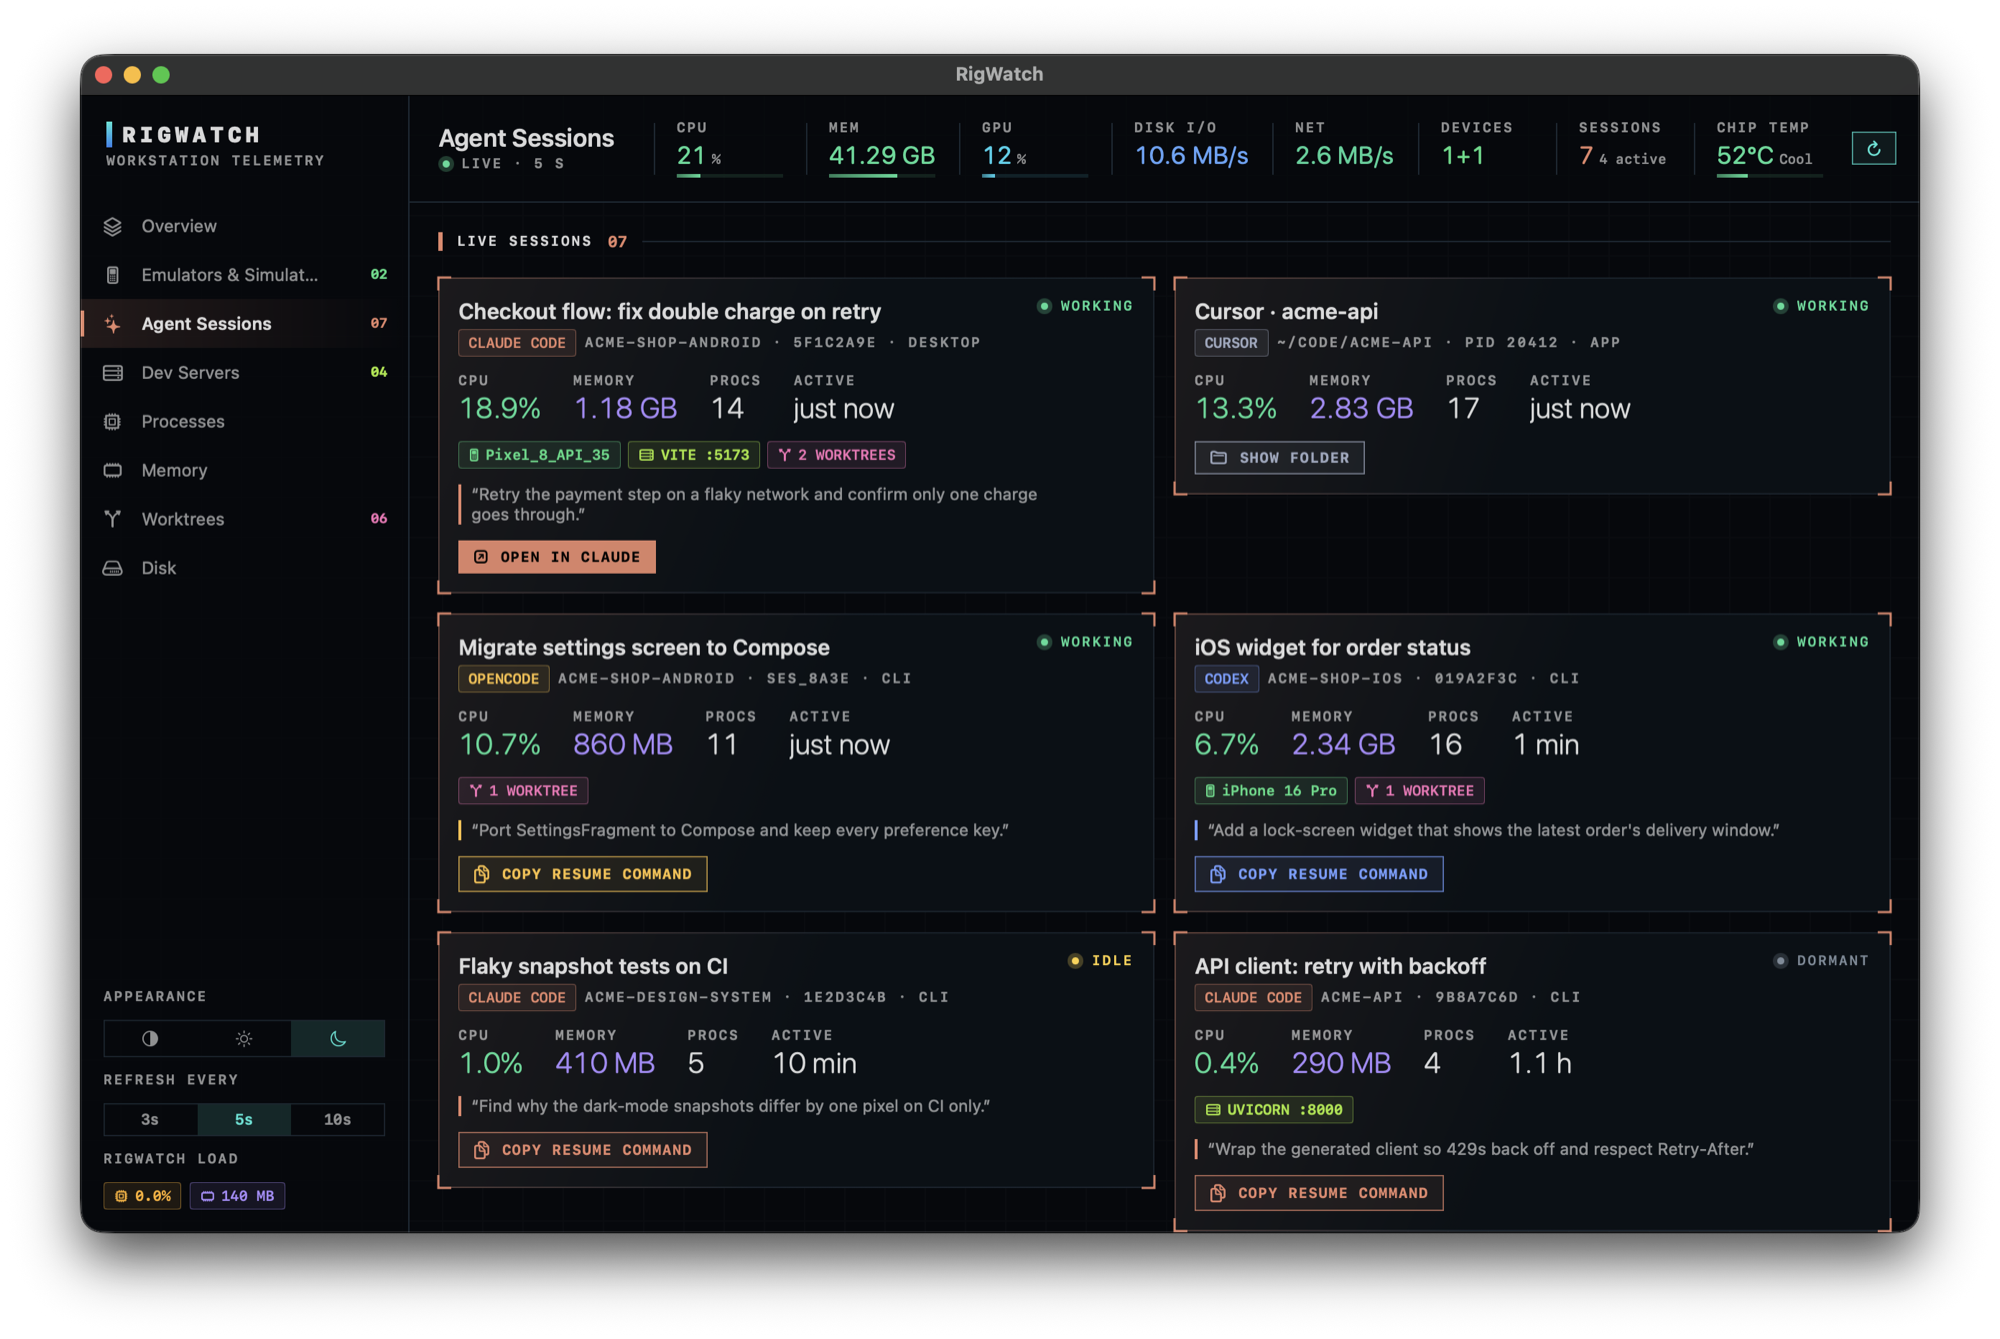
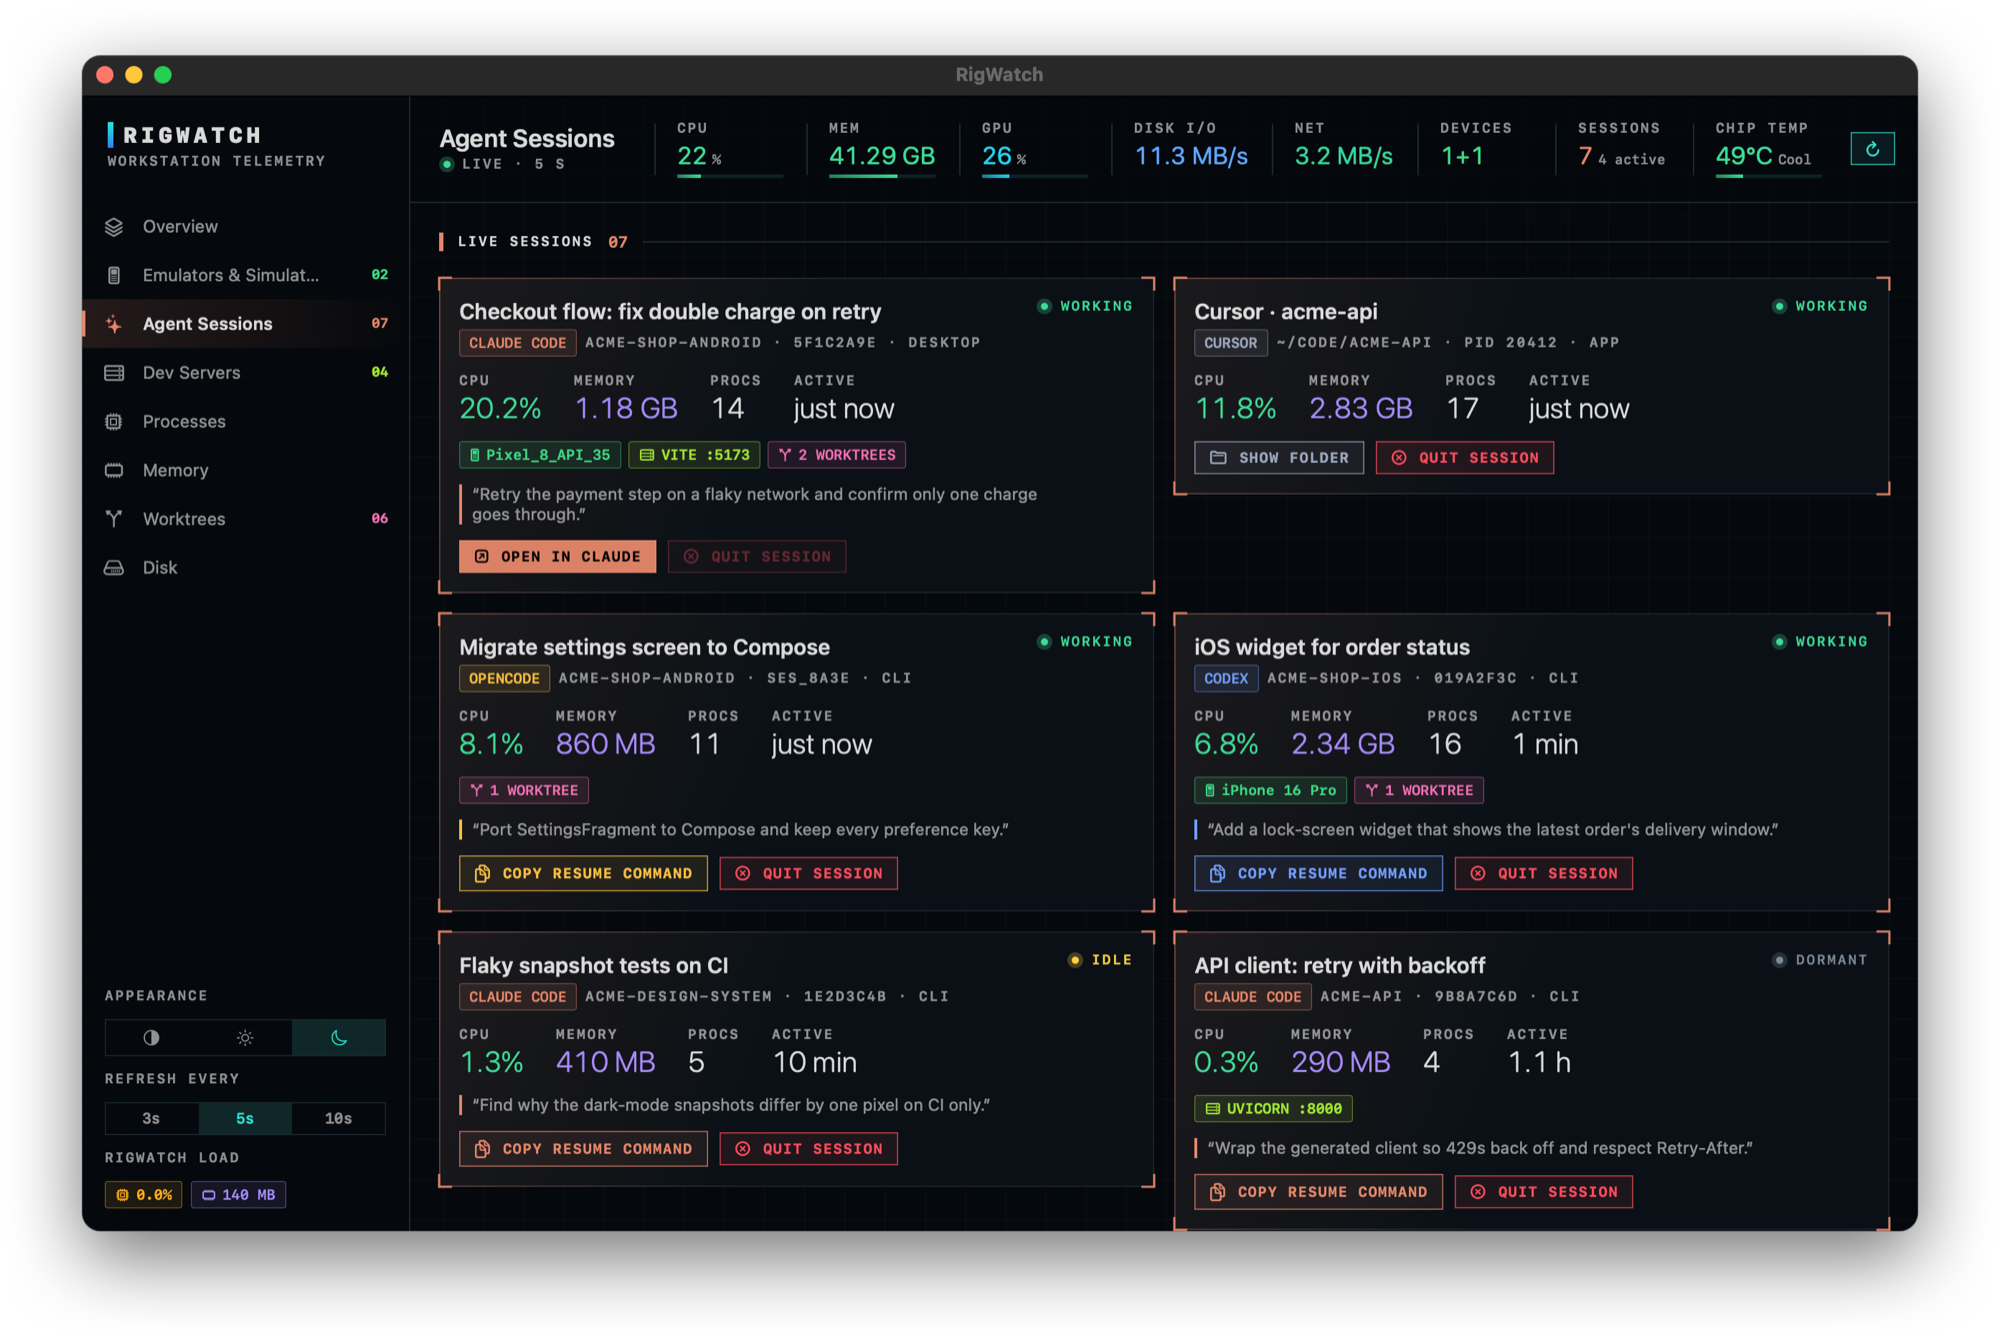
Add Quit session to live agent session cards
A dormant session keeps its agent process and memory, and resuming it
with `claude --resume` then /exit only ends a second process. Each live
card now has a Quit session button that sends SIGTERM to the session's
own agent process after a confirmation naming the pid and host, the
resume command, a warning when the session is working, and that the
processes it started are left alone. Start times are checked before
signalling so a reused pid is never hit.

Sessions run inside the desktop app are not quit from here: the
button is disabled with a note to archive them in the app. Other agents
quit their root process. Demo mode only shows a toast. After an action
the lists refresh again shortly so an exiting process's card goes away.
Agent Sessions screenshots retaken in demo mode.

diff --git a/Sources/RigWatch/Monitor.swift b/Sources/RigWatch/Monitor.swift
@@ -180,6 +180,7 @@ final class Monitor: ObservableObject {
 
     nonisolated private static func buildSessions(_ ps: [Proc], _ devs: [Device]?, _ wts: [Worktree]?, _ index: SessionIndex, _ sampler: ProcSampler) -> [Session] {
         var live: [String: String] = [:]   // id -> host
+        var cliPids: [String: [Int32: UInt64]] = [:]   // id -> its terminal `claude` processes, the ones Quit session may end
         let byPid = Dictionary(uniqueKeysWithValues: ps.map { ($0.pid, $0) })
         var kids: [Int32: [Int32]] = [:]
         for p in ps { kids[p.ppid, default: []].append(p.pid) }
@@ -192,7 +193,12 @@ final class Monitor: ObservableObject {
                 let a = p.args[i]
                 id = a.contains("=") ? String(a.split(separator: "=")[1]) : (i + 1 < p.args.count ? p.args[i + 1] : nil)
             }
-            if let id { live[id] = sampler.hostSession(p.pid) != nil ? "Desktop" : "CLI" }
+            guard let id else { continue }
+            if sampler.hostSession(p.pid) != nil { live[id] = "Desktop" }   // run by the Claude app: left to the app
+            else {
+                if live[id] == nil { live[id] = "CLI" }
+                if p.start != 0 { cliPids[id, default: [:]][p.pid] = p.start }
+            }
         }
         var ids = Set(live.keys)
         for p in ps { if let s = p.session { ids.insert(s) } }
@@ -203,6 +209,7 @@ final class Monitor: ObservableObject {
         for id in ids {
             out[id] = index.describe(id, live: live[id] != nil, host: live[id] ?? "gone")
             out[id]!.hostId = hosts[id] ?? index.hostId(forCli: id)
+            out[id]!.pids = cliPids[id] ?? [:]
         }
         // Attribute every process to the session whose id it inherited.
         for p in ps { if let s = p.session, out[s] != nil { out[s]!.procCount += 1; out[s]!.cpu += p.cpu; out[s]!.mem += p.mem } }
@@ -236,6 +243,8 @@ final class Monitor: ObservableObject {
                 self.toast = msg
                 self.lastWorktrees = .distantPast
                 self.refresh(worktreesNow: key.hasPrefix("wt:"))
+                // A quit process can take a moment to exit: look again so its card goes promptly.
+                DispatchQueue.main.asyncAfter(deadline: .now() + 2.5) { self.refresh() }
             }
         }
     }
@@ -248,6 +257,48 @@ final class Monitor: ObservableObject {
         msg += force ? "\n\nForce Quit (SIGKILL) gives it no chance to save anything." : "\n\nQuit sends SIGTERM so it can shut down cleanly."
         pending = Pending(title: force ? "Force quit \(p.name)?" : "Quit \(p.name)?", message: msg, button: force ? "Force Quit" : "Quit") {
             kill(p.pid, force ? SIGKILL : SIGTERM) == 0 ? "Sent \(force ? "SIGKILL" : "SIGTERM") to \(p.name) (\(p.pid))." : "Could not signal \(p.pid): \(String(cString: strerror(errno)))"
+        }
+    }
+
+    /// Quit session: SIGTERM to the session's own agent process(es), never the Claude app.
+    func confirmQuitSession(_ s: Session) {
+        if Demo.on { toast = "Demo mode: nothing was changed."; return }
+        let targets = s.pids.compactMap { pid, start in procs.first { $0.pid == pid && $0.start == start } }.sorted { $0.pid < $1.pid }
+        guard !targets.isEmpty else {
+            toast = s.host == "Desktop" ? "Desktop sessions run inside the Claude app: archive this one there." : "\(s.title) is no longer running."
+            return
+        }
+        for p in targets {
+            if let why = Safety.processBlock(p) { toast = "Not allowed: \(why)"; return }
+            if p.path.hasSuffix("Claude.app/Contents/MacOS/Claude") { toast = "Not allowed: that is the Claude desktop app."; return }
+        }
+        let host = s.host == "Desktop" ? "CLI" : s.host   // a Desktop card only lists its terminal processes here
+        var msg = "\(s.agent.rawValue) · \(s.title)"
+        msg += "\n" + targets.map { "\($0.name) (pid \($0.pid)) · \(host) · CPU \(Fmt.cpu($0.cpu)) · \(Fmt.bytes($0.mem))" }.joined(separator: "\n")
+        if targets.count > 1 { msg += "\n\nThis session is open in \(targets.count) processes (a resume runs alongside the original): all of them are quit." }
+        if s.host == "Desktop" { msg += "\n\nThe Claude app's own process for this session is left alone; archive the session in the Claude app to end it there." }
+        if s.host == "App", let p = targets.first { msg += "\n\n⚠ This quits \(p.name) itself, with all of its windows." }
+        if s.isWorking { msg += "\n\n⚠ This session is working right now: quitting stops it mid-turn." }
+        if !s.id.hasPrefix("pid:"), let cmd = s.agent.resumeCommand(s.id) {
+            msg += "\n\nThe conversation is saved. Resume it later with:\n\(cmd)"
+        } else {
+            msg += "\n\nWhat \(s.agent.rawValue) keeps after quitting is up to it; RigWatch has no resume command for it."
+        }
+        let mine = Set(targets.map(\.pid))
+        let kids = procs.filter { !mine.contains($0.pid) && $0.session == s.id }.count
+        if kids > 0 { msg += "\n\nThe \(kids) process(es) it started (MCP servers, dev servers, builds) are not stopped here. Any that keep running stay on Processes and Dev Servers." }
+        msg += "\n\nQuit sends SIGTERM so it can shut down cleanly."
+        let list = targets.map { ($0.pid, $0.start) }, name = s.agent.rawValue
+        pending = Pending(title: "Quit session \(s.title.prefix(40))?", message: msg, button: "Quit Session") {
+            var sent: [Int32] = [], gone = 0, failed: [String] = []
+            for (pid, start) in list {
+                // The pid may have been reused since the dialog opened: only signal the same process.
+                guard ProcSampler.startTime(pid) == start else { gone += 1; continue }
+                if kill(pid, SIGTERM) == 0 { sent.append(pid) } else { failed.append("\(pid): \(String(cString: strerror(errno)))") }
+            }
+            if !failed.isEmpty { return "Could not signal " + failed.joined(separator: ", ") }
+            if sent.isEmpty { return "\(name) had already exited." }
+            return "Sent SIGTERM to \(name) (pid \(sent.map(String.init).joined(separator: ", ")))." + (gone > 0 ? " \(gone) had already exited." : "")
         }
     }
 

diff --git a/Sources/RigWatch/Views.swift b/Sources/RigWatch/Views.swift
@@ -707,7 +707,10 @@ struct SessionCard: View {
                     Text("“\(s.lastPrompt)”").font(.system(size: 11.5)).foregroundStyle(.secondary).lineLimit(3).help(s.lastPrompt)
                         .padding(.leading, 9).overlay(alignment: .leading) { Rectangle().fill(Color(nsColor: s.agent.color)).frame(width: 2) }
                 }
-                OpenSessionButton(session: s)
+                HStack(spacing: 8) {
+                    OpenSessionButton(session: s)
+                    if s.live { QuitSessionButton(session: s) }
+                }
             }
         }
     }
@@ -1403,6 +1406,23 @@ struct OpenSessionButton: View {
             .buttonStyle(HUDButton(color: Color(nsColor: session.agent.color), filled: { if case .open = act { true } else { false } }()))
             .disabled({ if case .none = act { true } else { false } }())
             .help(act.help)
+    }
+}
+
+/// Ends a live session's own agent process, after the confirmation in Monitor.confirmQuitSession.
+struct QuitSessionButton: View {
+    @ObservedObject private var m = Monitor.shared
+    let session: Session
+    var body: some View {
+        let s = session
+        let can = Demo.on ? s.host != "Desktop" : !s.pids.isEmpty   // demo cards follow the real rule
+        let help = can ? "Quits this session's \(s.agent.rawValue) process (SIGTERM), after asking." + (s.agent.resumeCommand(s.id) != nil && !s.id.hasPrefix("pid:") ? " Its conversation stays saved." : "")
+            : s.host == "Desktop" ? "This session runs inside the Claude app. Archive it in the Claude app to end it."
+            : "RigWatch can't tell which process runs this session; find it on Processes."
+        Button { m.confirmQuitSession(s) } label: { Label("Quit session", systemImage: "xmark.circle") }
+            .buttonStyle(HUDButton(color: Color(hex: 0xFF4D5E)))
+            .disabled(!can)
+            .help(help)
     }
 }
 

diff --git a/Sources/RigWatch/Agents.swift b/Sources/RigWatch/Agents.swift
@@ -114,6 +114,7 @@ final class AgentIndex {
                             host: l.via.map { "via \($0)" } ?? (l.agent.full ? "CLI" : "App"))
             s.agent = l.agent; s.cwd = l.cwd; s.started = started
             s.procCount = l.procs; s.cpu = l.cpu; s.mem = l.mem
+            if l.root.start != 0 { s.pids = [l.root.pid: l.root.start] }
             // Full agents: the session named on the command line, else the newest one of that tool in this folder.
             let rows = l.agent == .opencode ? ocRows : l.agent == .codex ? cxRows : []
             let named = Agent.sessionArg(l.root.args).flatMap { id in rows.first { $0.id == id } }

diff --git a/Sources/RigWatch/Sessions.swift b/Sources/RigWatch/Sessions.swift
@@ -18,6 +18,7 @@ struct Session: Identifiable, Hashable {
     var agent: Agent = .claude
     var cwd: String?
     var started: Date?
+    var pids: [Int32: UInt64] = [:]   // the session's own agent process(es) that may be quit -> start time; never the Claude app's
 
     var status: String {
         guard live else { return transcriptAge.map { $0 < 600 ? "Closed (recent)" : "Closed" } ?? "Closed" }

diff --git a/README.md b/README.md
@@ -152,6 +152,11 @@ Built from source instead? Skip the first two steps and delete the app with
 
 - **Nothing is closed without asking.** Every quit, shut-down and removal shows what will happen
   and who is using it first. macOS's own processes and other users' processes are never offered.
+- **Quit session ends a session's own agent process**: on a live session card it sends SIGTERM to
+  that session's terminal `claude` (or other agent) process after saying which pid it is and the
+  command that resumes it. Sessions in the Claude desktop app are left to the app (archive them there).
+  RigWatch does not stop the processes the session started: its MCP servers normally exit with it,
+  and dev servers it left running stay on Dev Servers.
 - **Worktree removal is checked first**: anything with uncommitted changes, untracked files (other
   than build output), unpushed commits or a process inside it is kept.
 - **Process environments are never stored.** RigWatch reads exactly two variables from its own
